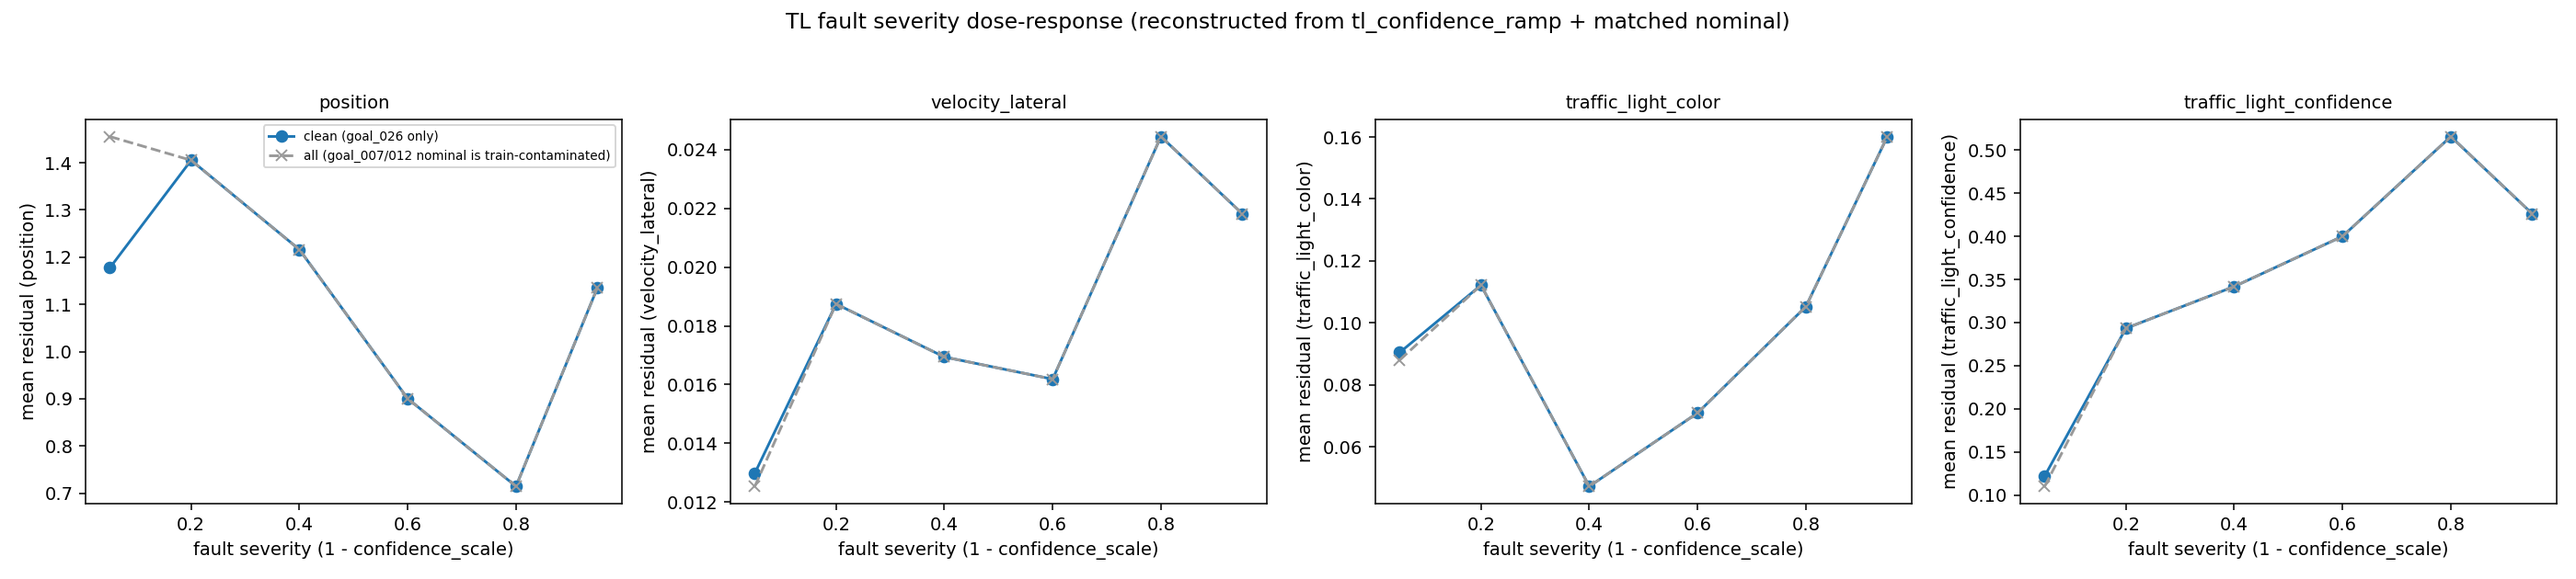
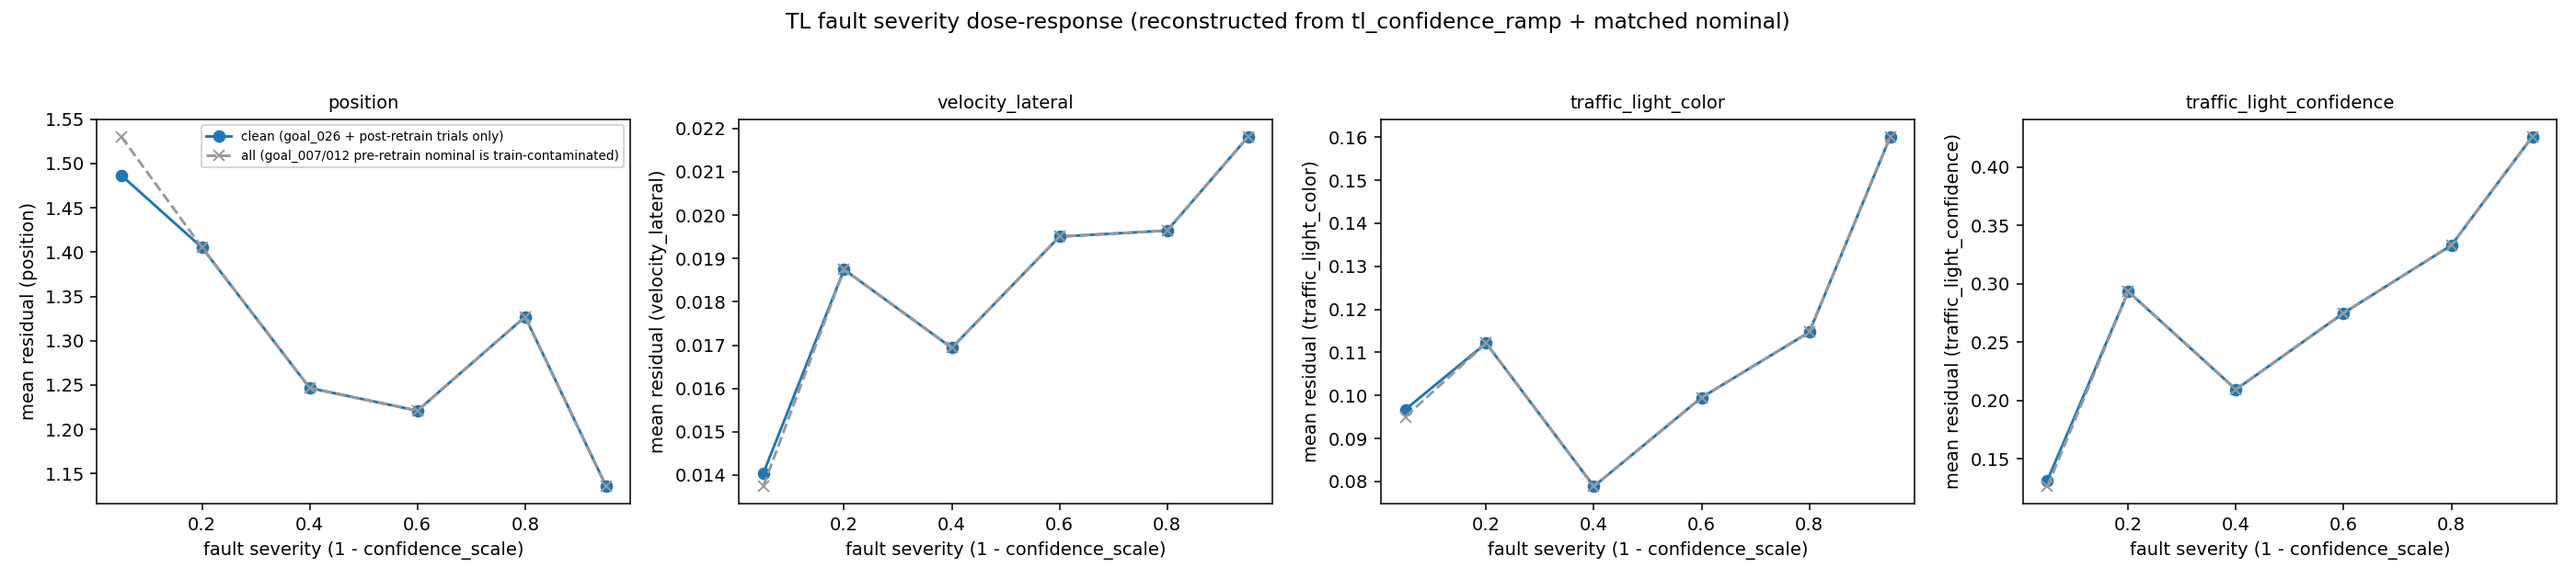
TL severity sweep: fix a real train-contamination labeling bug, rerun
tl_severity_sweep_analysis.py's "clean/held-out" check was
`run_name in CAL_DIR_TRIALS` - today's CAL_DIR membership - but the
deployed model (st_gat_rise.pth, 2026-08-25) trained on goal_007/012's
original 2026-07-22 trials back when they were still in TRAIN_DIR.
Promoting them to CAL_DIR this session (goal_split_manifest.json) doesn't
retroactively un-train the model on them. Before the fix, clean_only and
all_including_contaminated came out byte-identical against the full
dataset - a red flag that got caught rather than missed. Fixed to the
real rule (_trial_is_clean): clean = goal_026 (never trained on, ever) OR
collected after the model's training cutoff.

Rerun against the full dataset (6 new nominal + 18 fixed-severity fault
trials, all validated this session) - results and plot updated.

Claude-Session: https://claude.ai/code/session_01BwA5EBg7RYsfqJKi3h3cpx

diff --git a/experiments/scripts/tl_severity_sweep_analysis.py b/experiments/scripts/tl_severity_sweep_analysis.py
@@ -44,7 +44,9 @@ import argparse
 import glob
 import json
 import os
+import re
 import sys
+from datetime import datetime
 
 import numpy as np
 import torch
@@ -68,8 +70,29 @@ from conformal_horizon_calibration import _SERIES  # noqa: E402
 from inspect_fault_predictions import process_trial  # noqa: E402
 
 DATA_DIR = os.path.join(REPO_DIR, 'experiments', 'data')
-CAL_DIR_TRIALS = {os.path.basename(p)[:-4] for p in glob.glob(os.path.join(cfg.CAL_DIR, '*.pkl'))}
 OUTPUT_DIR = os.path.join(REPO_DIR, 'experiments', 'analysis', 'tl_severity_sweep')
+
+# "Clean" means "the currently-deployed model could not have trained on this
+# trial" -- NOT "is this trial in CAL_DIR today" (fixed 2026-10-04). Those
+# used to coincide (only goal_026 was in CAL_DIR when this script was
+# written), but goal_007/012 were promoted to CAL_DIR today
+# (manage_goal_split.py) while st_gat_rise.pth's last retrain predates that
+# by weeks -- it DID train on goal_007/012's original 2026-07-22 trials, and
+# moving them into CAL_DIR today doesn't retroactively un-train it on them.
+# A trial collected AFTER the model's own mtime is unconditionally clean
+# regardless of which directory it's in now (it didn't exist yet to train
+# on); goal_026 is clean unconditionally (never in TRAIN_DIR at any point).
+_MODEL_MTIME = os.path.getmtime(cfg.MODEL_CONFIG['model_path'])
+
+
+def _trial_is_clean(goal: str, run_name: str) -> bool:
+    if goal == 'goal_026':
+        return True
+    m = re.match(r't\d+_(\d{8})_(\d{6})', run_name)
+    if not m:
+        return False
+    trial_time = datetime.strptime(m.group(1) + m.group(2), '%Y%m%d%H%M%S').timestamp()
+    return trial_time > _MODEL_MTIME
 _SERIES_KEYS = [s[0] for s in _SERIES]
 
 GOALS = ['goal_007', 'goal_012', 'goal_026']
@@ -202,7 +225,7 @@ def main():
         nom_dir = os.path.join(DATA_DIR, NOMINAL_CAMPAIGN, goal)
         for run_dir in sorted(glob.glob(os.path.join(nom_dir, 't*'))):
             run_name = os.path.basename(run_dir)
-            is_clean = run_name in CAL_DIR_TRIALS
+            is_clean = _trial_is_clean(goal, run_name)
             print(f"\n[nominal] {goal}/{run_name}  (held-out/clean: {is_clean})")
             out = process_trial(run_dir, NOMINAL_CAMPAIGN, shared_builder, kind='tl')
             if out is None:
@@ -223,7 +246,7 @@ def main():
     clean_arr = np.concatenate(all_clean)
     resid = {k: np.concatenate(v) for k, v in all_resid.items()}
 
-    # ── Dose-response: severity bins, CLEAN (goal_026 only) vs ALL (caveated) ──
+    # ── Dose-response: severity bins, CLEAN (never-trained-on trials) vs ALL (caveated) ──
     severity = 1.0 - conf   # 0 = no fault, 1 = complete confidence loss
     bins = np.array([0.0, 0.1, 0.3, 0.5, 0.7, 0.9, 1.001])
     bin_labels = [f'[{bins[i]:.1f},{bins[i+1]:.1f})' for i in range(len(bins) - 1)]
@@ -250,8 +273,8 @@ def main():
     fig, axes = plt.subplots(1, len(check_keys), figsize=(5 * len(check_keys), 4.5))
     bin_centers = [(bins[i] + bins[i + 1]) / 2 for i in range(len(bins) - 1)]
     for ax, k in zip(axes, check_keys):
-        for subset_name, mask_extra, style in [('clean (goal_026 only)', clean_arr, dict(color='#1f77b4', marker='o')),
-                                                 ('all (goal_007/012 nominal is train-contaminated)', np.ones_like(clean_arr), dict(color='#999999', marker='x', linestyle='--'))]:
+        for subset_name, mask_extra, style in [('clean (goal_026 + post-retrain trials only)', clean_arr, dict(color='#1f77b4', marker='o')),
+                                                 ('all (goal_007/012 pre-retrain nominal is train-contaminated)', np.ones_like(clean_arr), dict(color='#999999', marker='x', linestyle='--'))]:
             ys = []
             for b in range(len(bin_labels)):
                 m = (bin_idx == b) & mask_extra
